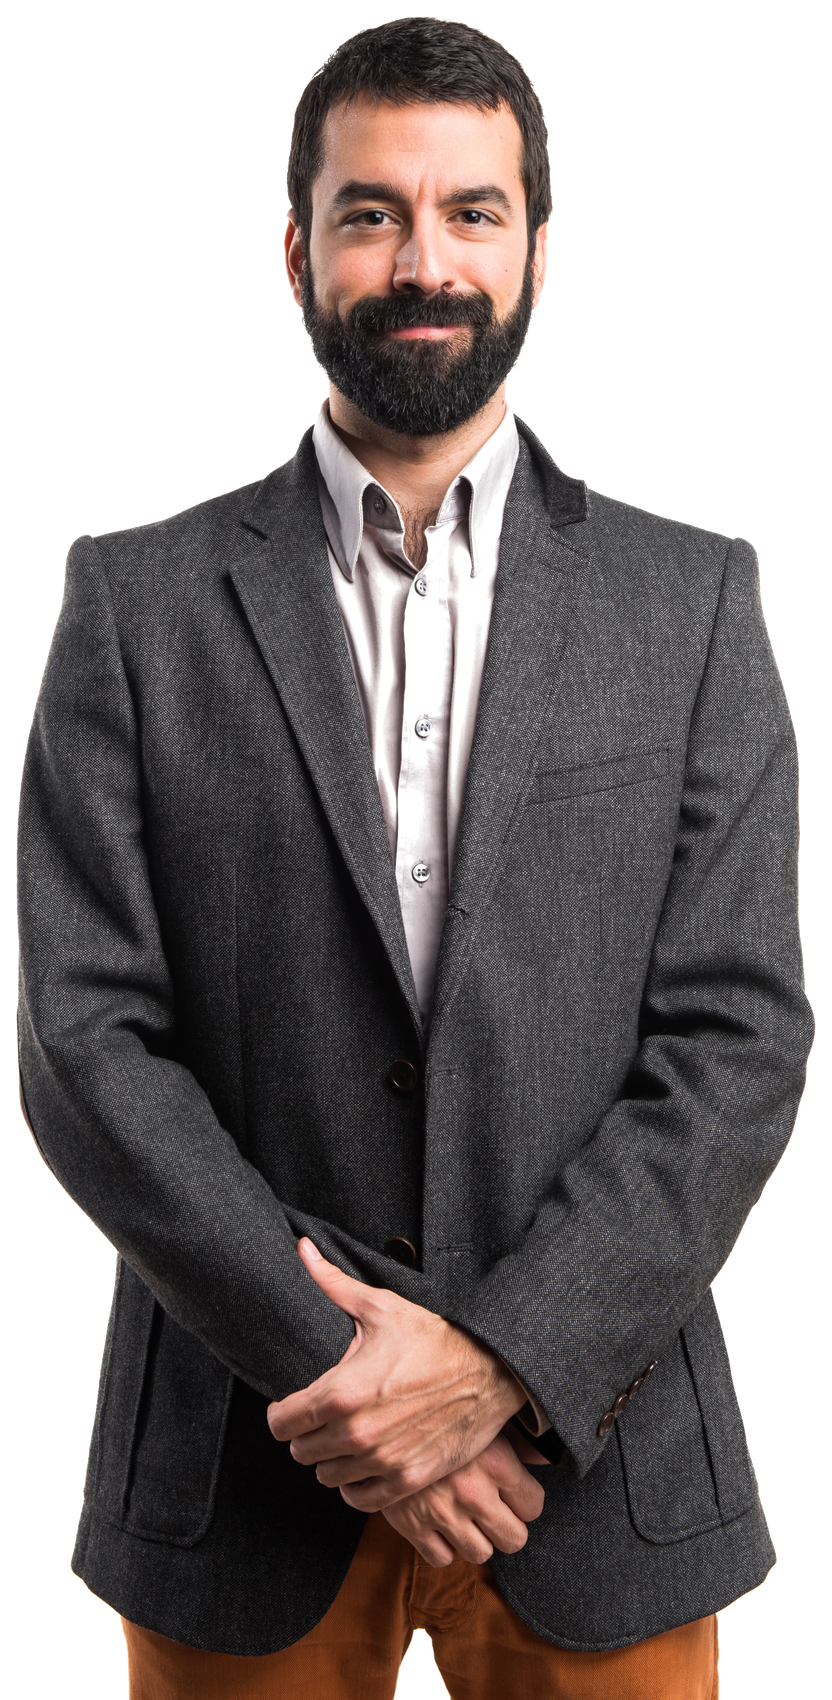
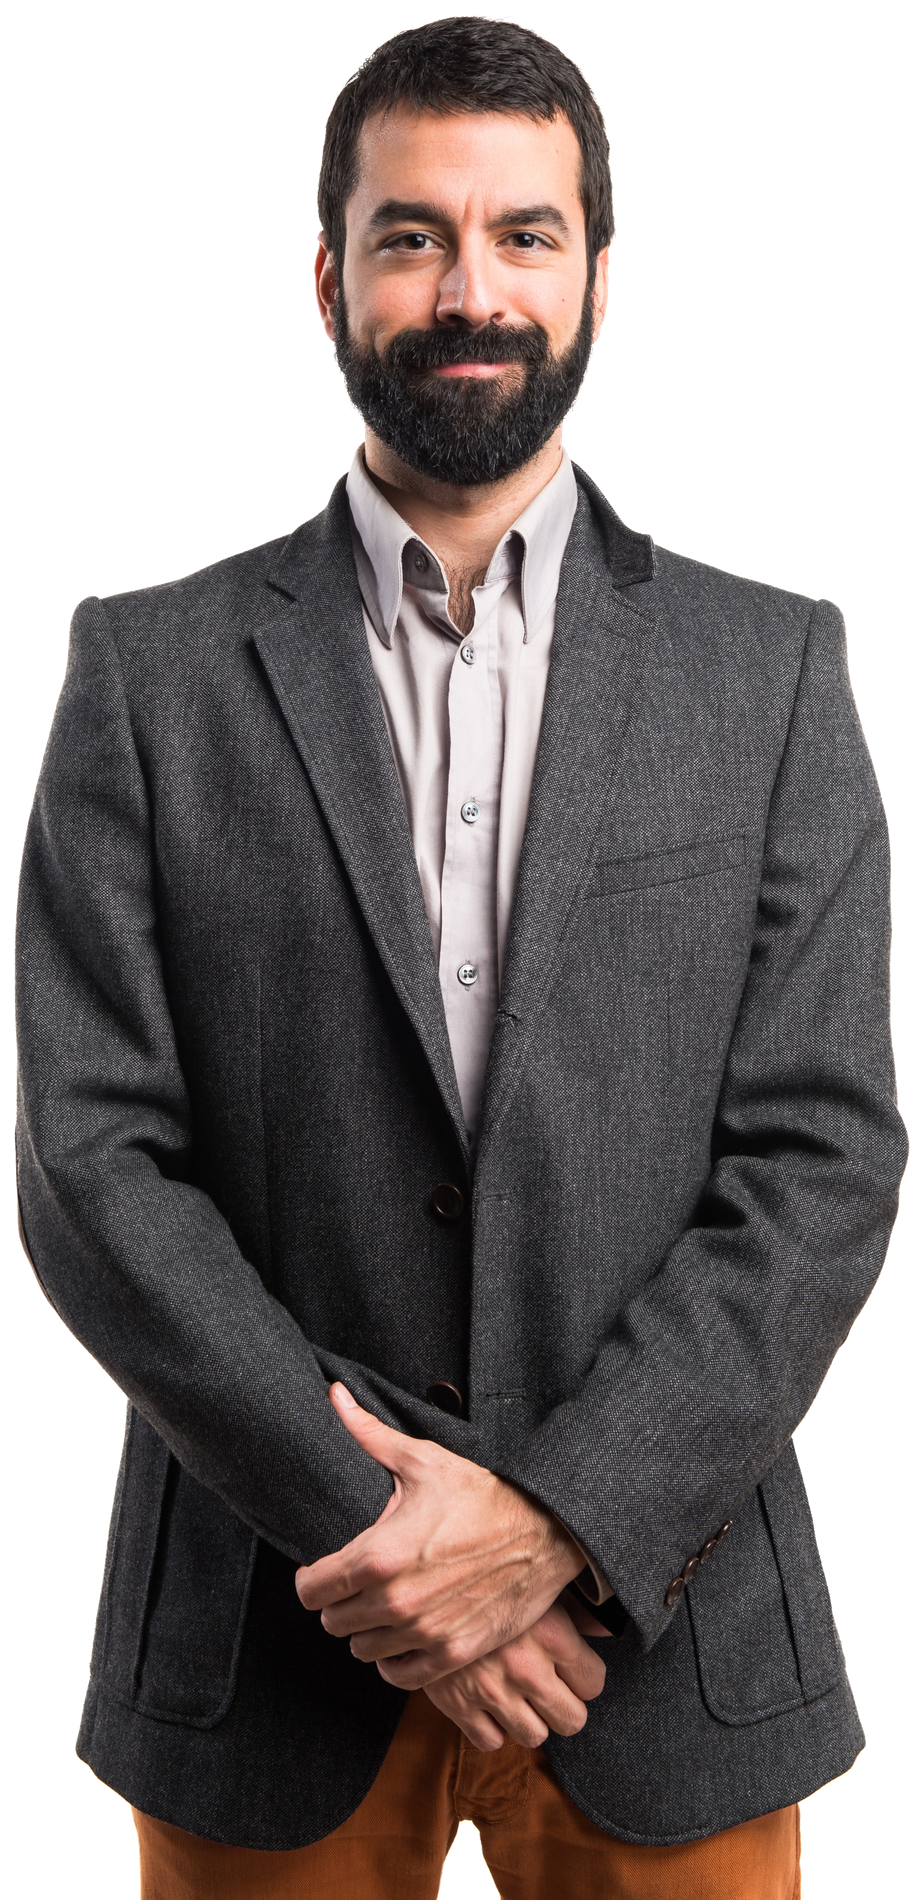
Fix hero cutout artifacts and match reference composition more closely
Two real problems, found by comparing directly against the reference:

1. Background removal was matting the shirt. The original brightness/saturation
   threshold treated the light-grey shirt fabric as near-background and
   partially punched it transparent (visible as magenta bleed-through when
   composited on a test background). Rewrote it with scipy connected-component
   labeling: only background pixels CONNECTED TO THE IMAGE BORDER are keyed
   out, so an interior light-colored garment that never touches the border
   survives untouched. Re-cropped and re-exported the cutout.

2. `filter: drop-shadow()` on the large transparent PNG silently failed to
   composite — the image decoded fine (verified via canvas pixel sampling,
   getImageData returned real suit/skin colors) but painted as fully invisible
   until any other style mutation forced a repaint. Replaced it with a
   grounding-shadow pseudo-element on a wrapper div instead of a CSS filter on
   the image itself — same visual cue (the figure looks planted, not
   floating), no compositing dependency.

Composition brought closer to the reference: the figure is now the dominant
element (clamp 420-640px tall vs. 280-480px before), the stage narrowed from
920px to 780px max-width, and the three glass cards pull in until they
genuinely tuck ~20px into the figure's silhouette on each side (verified via
getBoundingClientRect — card and image rects now overlap on both axes),
[…]

diff --git a/apps/web/app/globals.css b/apps/web/app/globals.css
@@ -984,18 +984,40 @@ details[open] > .filter-summary::after { content: '–'; }
 .hero-stage {
   position: relative;
   width: 100%;
-  max-width: 920px;
-  margin-top: clamp(28px, 5vw, 48px);
+  max-width: 780px;
+  margin-top: clamp(4px, 1vw, 12px);
   display: flex;
   justify-content: center;
-  min-height: clamp(320px, 40vw, 480px);
+  min-height: clamp(420px, 52vw, 640px);
+}
+.hero-subject-wrap {
+  position: relative;
+  z-index: 3;
+  height: clamp(420px, 52vw, 640px);
+}
+.hero-subject-wrap::after {
+  /* A drop-shadow() filter on this element fails to composite in some
+     renderers when applied to a large transparent PNG (verified: the filter
+     alone made the whole figure disappear even though the image itself
+     decoded and painted fine). A grounding ellipse behind the feet gives the
+     same "not floating" cue without relying on filter compositing. */
+  content: '';
+  position: absolute;
+  bottom: 2%;
+  left: 50%;
+  transform: translateX(-50%);
+  width: 60%;
+  height: 24px;
+  background: radial-gradient(50% 50% at 50% 50%, rgba(15, 23, 42, 0.22), transparent 72%);
+  z-index: -1;
 }
 .hero-subject {
+  /* Dominant figure, per the reference: it is the visual anchor the cards
+     gather around, not a small illustration floating in empty space. */
   position: relative;
-  z-index: 1;
-  height: clamp(280px, 34vw, 480px);
+  display: block;
+  height: 100%;
   width: auto;
-  filter: drop-shadow(0 24px 32px rgba(15, 23, 42, 0.22));
 }
 
 .glass-card {
@@ -1008,7 +1030,7 @@ details[open] > .filter-summary::after { content: '–'; }
   backdrop-filter: blur(16px) saturate(1.6);
   -webkit-backdrop-filter: blur(16px) saturate(1.6);
   padding: 14px 16px;
-  max-width: 240px;
+  max-width: 226px;
   display: flex;
   flex-direction: column;
   gap: 3px;
@@ -1016,9 +1038,12 @@ details[open] > .filter-summary::after { content: '–'; }
 @media (prefers-color-scheme: dark) {
   :root:not([data-theme='light']) .glass-card { background: rgba(26, 31, 43, 0.82); }
 }
-.gcard-left { top: 12%; left: -2%; }
-.gcard-top-right { top: 4%; right: -3%; max-width: 260px; }
-.gcard-bottom-right { bottom: 6%; right: -4%; }
+/* Pulled in close enough that the figure (z-index 3) overlaps their inner
+   edge — the "tucked behind the subject" depth the reference composition
+   uses, rather than cards floating in open space beside a small figure. */
+.gcard-left { top: 44%; left: 2%; }
+.gcard-top-right { top: 6%; right: 2%; max-width: 240px; }
+.gcard-bottom-right { bottom: 8%; right: 4%; }
 
 .gcard-icon {
   display: inline-grid;

diff --git a/apps/web/app/page.tsx b/apps/web/app/page.tsx
@@ -100,15 +100,17 @@ export default async function HomePage() {
               the Countesia reference: one dominant figure, three supporting cards
               layered around it rather than a rectangular photo card. */}
           <div className="hero-stage">
-            <Image
-              src="/img/hero/advocate-cutout.png"
-              alt=""
-              width={832}
-              height={1700}
-              priority
-              sizes="(max-width: 640px) 220px, (max-width: 1024px) 300px, 380px"
-              className="hero-subject"
-            />
+            <div className="hero-subject-wrap">
+              <Image
+                src="/img/hero/advocate-cutout.png"
+                alt=""
+                width={924}
+                height={1900}
+                priority
+                sizes="(max-width: 640px) 280px, (max-width: 1024px) 420px, 520px"
+                className="hero-subject"
+              />
+            </div>
 
             <div className="glass-card gcard-left">
               <span className="gcard-icon" aria-hidden="true">⚖</span>
